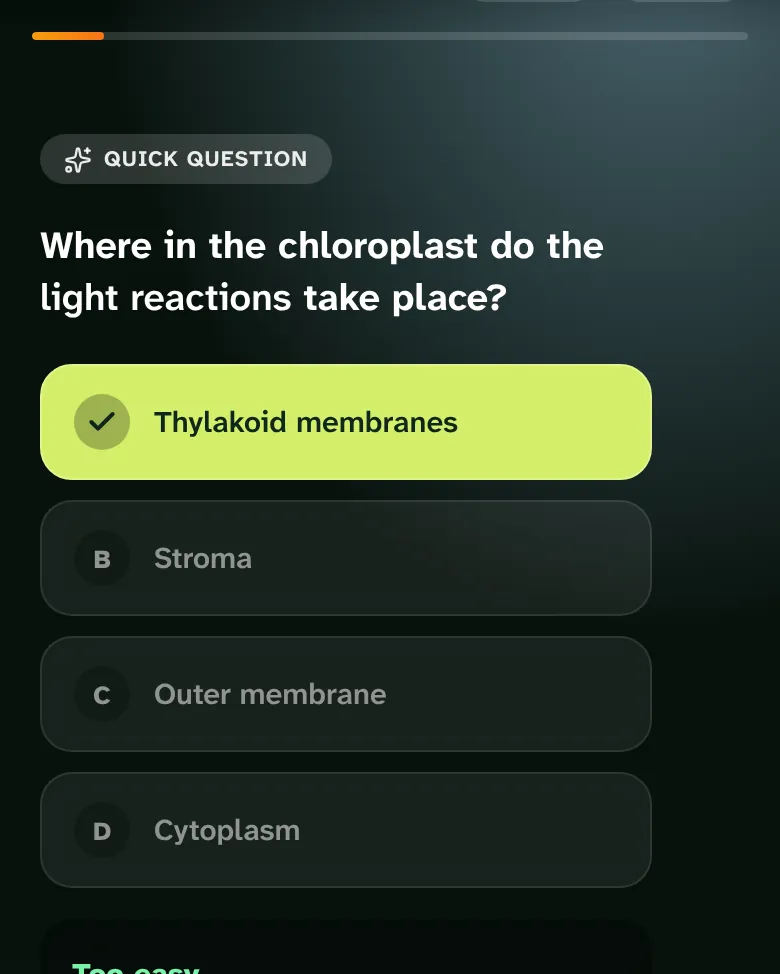
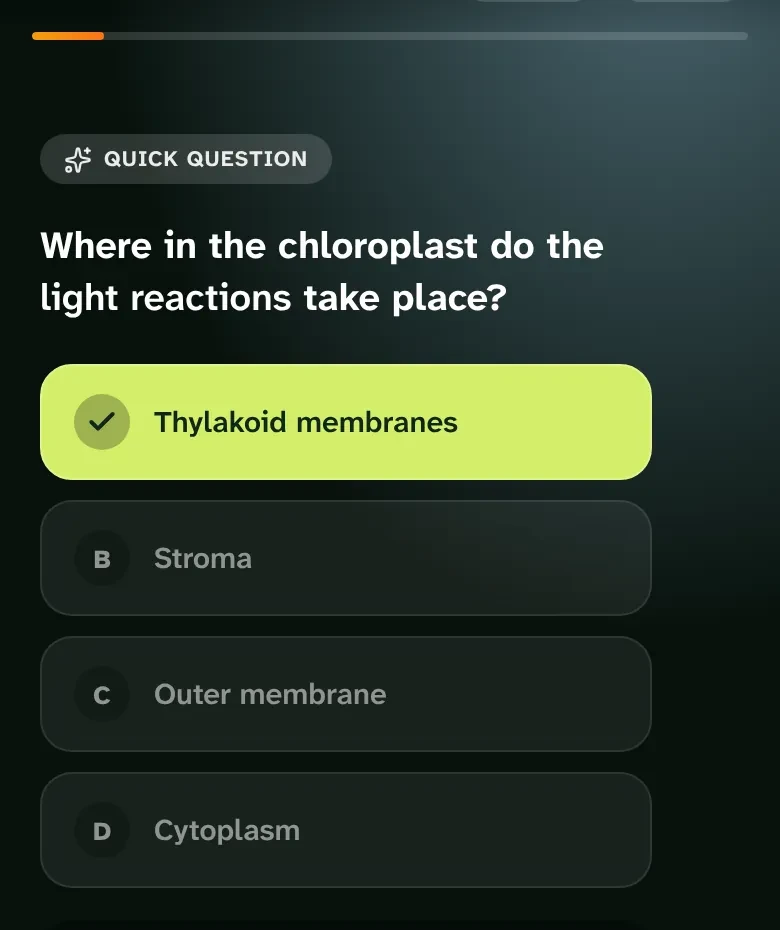
Jury round 5 fixes: hero flashcards on inner pages, cleaner hero chips, quieter details
- How it works and About: a flip-able flashcard fills the hero's empty right half
- Home hero: the quiz and source chips sit on the shot's bottom edge (desktop)
  and over the empty side of the options (phone); the cut-off 'Too easy' row
  is cropped out of the shot
- Drawn lines (thread, pipeline, finale) no longer leave a lone dot before
  they start drawing; the thread passes under the Exam Night Pass line
- Mind map: the stray edge now ends at an ATP node
- Stats: the rating and the time are shown as they are; only the large
  counts move, from 90% of the figure
- Secondary buttons fill with paper on hover, so lime always marks the main
  action; Google's button stays neutral
- Sign-in copy in sentence case ('Sign in', 'Email me a code', 'Continue
  with Google'); sign-up shows a Terms and Privacy line

Claude-Session: https://claude.ai/code/session_014LFL1RfnKKWAWyBu4pZUKt

diff --git a/frontend/website/src/app/globals.css b/frontend/website/src/app/globals.css
@@ -111,6 +111,10 @@ p { max-width: 62ch; }
 .btn--accent { background: var(--c-accent); color: var(--c-fg); }
 .btn--accent::before { background: var(--c-on-fg); }
 .btn--ghost { color: var(--c-on-fg); box-shadow: inset 0 0 0 1px rgb(242 241 234 / 0.35); }
+/* Secondary pills fill with paper, not lime, so the lime fill always marks the main action */
+.btn--light::before { background: var(--c-bg-2); }
+.btn--soft::before { background: rgb(22 54 40 / 0.1); }
+.btn--ghost::before { background: var(--c-on-fg); }
 .btn:focus-visible::before { transform: scaleX(1); }
 .btn:focus-visible { color: var(--c-fg); }
 .btn:active { scale: 0.97; }
@@ -263,8 +267,8 @@ html.motion .menu:not([hidden]) li:nth-child(5) { animation-delay: 0.16s; }
 /* ---------- Highlighter circle ---------- */
 .circled { position: relative; display: inline-block; isolation: isolate; }
 .circled svg { position: absolute; left: -6%; top: -6%; width: 114%; height: 118%; overflow: visible; z-index: -1; pointer-events: none; }
-.circled path { fill: none; stroke: var(--c-accent); stroke-width: 9; stroke-linecap: round; stroke-linejoin: round; stroke-dasharray: 1; }
-html.motion [data-draw] { stroke-dasharray: 1; stroke-dashoffset: 1; }
+.circled path { fill: none; stroke: var(--c-accent); stroke-width: 9; stroke-linecap: round; stroke-linejoin: round; stroke-dasharray: 1 2; }
+html.motion [data-draw] { stroke-dasharray: 1 2; stroke-dashoffset: 1; }
 
 /* ---------- Photos: forest duotone on paper; grid paper if a photo fails ---------- */
 .photo {
@@ -313,8 +317,8 @@ html.motion .rise { animation: rise 1.1s var(--ease-out) both; animation-delay: 
 .floater__dots i { width: 0.6rem; height: 0.6rem; border-radius: 50%; box-shadow: inset 0 0 0 1.5px var(--c-fg); }
 .floater__dots i.on { background: var(--c-accent); }
 .floater--a { left: 10%; top: -1.75rem; }
-.floater--b { right: -1.5rem; top: 40%; }
-.floater--c { right: 12%; bottom: -1.75rem; }
+.floater--b { left: -1.25rem; bottom: -2rem; }
+.floater--c { right: -1.25rem; bottom: -2rem; }
 .xp { display: block; height: 0.45rem; border-radius: 99px; background: var(--c-bg-2); margin-top: 0.55rem; overflow: hidden; }
 .xp span { display: block; height: 100%; background: var(--c-fg); border-radius: inherit; }
 
@@ -339,7 +343,7 @@ html.motion .rise { animation: rise 1.1s var(--ease-out) both; animation-delay: 
 .curve__plot svg { width: 100%; height: auto; aspect-ratio: 800 / 300; overflow: visible; }
 .curve__grid { stroke: rgb(242 241 234 / 0.12); stroke-width: 1; }
 .curve__review { stroke: rgb(211 238 106 / 0.28); stroke-width: 1; stroke-dasharray: 3 5; }
-.curve__line { fill: none; stroke-linecap: round; stroke-linejoin: round; stroke-dasharray: 1; }
+.curve__line { fill: none; stroke-linecap: round; stroke-linejoin: round; stroke-dasharray: 1 2; }
 .curve__line--once { stroke: rgb(242 241 234 / 0.6); stroke-width: 2; }
 .curve__line--rev { stroke: var(--c-accent); stroke-width: 4.5; }
 .curve__marker { stroke: rgb(242 241 234 / 0.45); stroke-width: 1; }
@@ -372,11 +376,11 @@ html.motion .rise { animation: rise 1.1s var(--ease-out) both; animation-delay: 
 /* ---------- Thread: the curve continues down the page ---------- */
 .thread { position: relative; }
 .thread__svg { position: absolute; inset: 0; width: 100%; height: 100%; pointer-events: none; z-index: 0; overflow: visible; }
-.thread__svg path { fill: none; stroke: var(--c-accent); stroke-width: 4; stroke-linecap: round; stroke-dasharray: 1; }
+.thread__svg path { fill: none; stroke: var(--c-accent); stroke-width: 4; stroke-linecap: round; stroke-dasharray: 1 2; }
 html.motion .thread__svg path { stroke-dashoffset: 1; }
 .thread > section { position: relative; z-index: 1; }
 .thread .node { justify-self: end; flex-direction: row-reverse; }
-.thread > section:not(.watch) :is(h2, .lede, .chapter, .index li, .stats__list li, .stats__note, .wall__item, .price-sec__more) { background: var(--c-bg); }
+.thread > section:not(.watch) :is(h2, .lede, .chapter, .index li, .stats__list li, .stats__note, .wall__item, .price-sec__more, .pricing__pass) { background: var(--c-bg); }
 .thread .loop__stage::before { content: ''; position: absolute; inset: 12%; border-radius: 50%; background: var(--c-bg); }
 .dial, .dial__labels, .dial__center { z-index: 1; }
 .loop__stage > * { position: absolute; inset: 0; }
@@ -610,6 +614,12 @@ html.motion .wall__media > div { scale: none; }
 .page-hero__grid > h1 { grid-column: 1 / 10; margin-left: -0.05em; }
 .page-hero__aside { grid-column: 1 / 13; display: grid; grid-template-columns: repeat(12, minmax(0, 1fr)); column-gap: var(--gutter); row-gap: 2rem; }
 .page-hero__aside .lede { grid-column: 1 / 6; }
+/* Inner pages: a flashcard holds the hero's right half (flip it for the answer) */
+.page-hero__grid--card > h1 { grid-column: 1 / 9; grid-row: 1; }
+.page-hero__grid--card .page-hero__aside { grid-column: 1 / 9; grid-row: 2; }
+.page-hero__grid--card .page-hero__aside .lede { grid-column: 1 / 10; }
+.page-hero__card { grid-column: 9 / 13; grid-row: 1 / span 2; align-self: center; rotate: 2deg; }
+.page-hero__card .flip__inner { min-height: 17rem; }
 .page-hero--center { text-align: center; }
 .page-hero--center h1 { max-width: 15ch; margin-inline: auto; }
 .page-hero--center .lede { margin: 1.75rem auto 0; max-width: 40ch; }
@@ -619,6 +629,8 @@ html.motion .wall__media > div { scale: none; }
 @media (max-width: 1023px) {
   .page-hero__grid > h1 { grid-column: 1 / -1; }
   .page-hero__aside .lede, .stage-nav { grid-column: 1 / -1; }
+  .page-hero__grid--card > h1, .page-hero__grid--card .page-hero__aside, .page-hero__card { grid-column: 1 / -1; grid-row: auto; }
+  .page-hero__card { rotate: none; max-width: 26rem; }
 }
 
 /* ---------- Features ---------- */
@@ -691,8 +703,8 @@ html.motion .wall__media > div { scale: none; }
 .pipe__steps { list-style: none; padding: 0; position: relative; display: grid; grid-template-columns: repeat(5, minmax(0, 1fr)); gap: var(--gutter); }
 .step { display: grid; gap: 0.75rem; align-content: start; }
 html.motion .pipe__line path, html.motion [data-draw-scrub] { stroke-dashoffset: 1; }
-.pipe__line path { stroke-dasharray: 1; }
-.finale__curve path { stroke-dasharray: 1; }
+.pipe__line path { stroke-dasharray: 1 2; }
+.finale__curve path { stroke-dasharray: 1 2; }
 html.motion .step { opacity: 0.42; transition: opacity 0.5s var(--ease-soft); }
 html.motion .step.is-lit { opacity: 1; }
 .step__n { transition: background-color 0.4s, color 0.4s, scale 0.6s var(--ease-out); }
@@ -849,9 +861,10 @@ html.motion .step.is-lit { opacity: 1; }
   /* Hero: photo with floating cards first, the memory chart overlaps it from below */
   .hero__media { grid-row: 1; grid-column: 1 / -1; margin: 1.75rem 1rem 0; }
   .hero__chart { grid-row: 2; grid-column: 1 / -1; margin-top: -5rem; position: relative; z-index: 4; }
-  .floater--a { left: -1.1rem; top: 6%; }
-  .floater--b { right: -1.1rem; top: 34%; }
-  .floater--c { left: -0.6rem; top: 58%; bottom: auto; }
+  .floater--a { left: -1.1rem; top: -1.6rem; }
+  /* Option text is left-aligned, so the chips sit on the right where the options are empty */
+  .floater--b { left: auto; right: -1.1rem; top: 38%; bottom: auto; }
+  .floater--c { left: auto; right: -0.8rem; top: 68%; bottom: auto; }
 
   /* Tools: a swipe deck of cards with their example output */
   .tools__head::after, .people__head::after { content: 'Swipe for more'; font-size: var(--t-xs); color: var(--c-muted); margin-top: 0.25rem; }

diff --git a/frontend/src/pages/Login.jsx b/frontend/src/pages/Login.jsx
@@ -1,5 +1,5 @@
 import React, { useState } from 'react';
-import { useNavigate, useSearchParams } from 'react-router-dom';
+import { Link, useNavigate, useSearchParams } from 'react-router-dom';
 import SiteHeader from '../components/site/SiteHeader';
 import Circled from '../components/site/Circled';
 import MemoryCurve from '../components/MemoryCurve';
@@ -269,11 +269,16 @@ const Login = () => {
                                 <Loader2 className="h-6 w-6 animate-spin" />
                             ) : (
                                 <>
-                                    {isForgot ? 'Send reset link' : isOtpMode ? (otpSent ? 'Verify OTP' : 'Send Code') : isLogin ? 'Sign In' : 'Create Account'}
+                                    {isForgot ? 'Send reset link' : isOtpMode ? (otpSent ? 'Verify code' : 'Email me a code') : isLogin ? 'Sign in' : 'Create account'}
                                     <ArrowRight className="h-5 w-5" />
                                 </>
                             )}
                         </button>
+                        {!isLogin && !isOtpMode && !isForgot && (
+                            <p className="text-center text-sm text-[#5E5046]">
+                                By creating an account you agree to the <Link to="/terms" className="underline underline-offset-2 hover:text-[#163628]">Terms</Link> and <Link to="/privacy" className="underline underline-offset-2 hover:text-[#163628]">Privacy Policy</Link>.
+                            </p>
+                        )}
                     </form>
 
                     {isForgot ? (
@@ -303,15 +308,15 @@ const Login = () => {
                                 setLoading(true);
                                 await loginWithGoogle();
                             } catch (e) {
-                                setMessage({ type: 'error', text: 'Google Sign In failed' });
+                                setMessage({ type: 'error', text: 'Google sign-in failed' });
                                 setLoading(false);
                             }
                         }}
                         disabled={loading}
-                        className="btn btn--light btn--block min-h-[3.4rem] gap-3 text-lg"
+                        className="btn btn--light btn--google btn--block min-h-[3.4rem] gap-3 text-lg"
                     >
                         <svg className="h-6 w-6" viewBox="0 0 48 48" aria-hidden="true"><path fill="#FFC107" d="M43.6 20.5H42V20H24v8h11.3C33.7 32.7 29.2 36 24 36c-6.6 0-12-5.4-12-12s5.4-12 12-12c3.1 0 5.8 1.2 7.9 3.1l5.7-5.7C34 6.1 29.3 4 24 4 12.9 4 4 12.9 4 24s8.9 20 20 20 20-8.9 20-20c0-1.3-.1-2.4-.4-3.5z"/><path fill="#FF3D00" d="M6.3 14.7l6.6 4.8C14.7 15.1 19 12 24 12c3.1 0 5.8 1.2 7.9 3.1l5.7-5.7C34 6.1 29.3 4 24 4 16.3 4 9.7 8.3 6.3 14.7z"/><path fill="#4CAF50" d="M24 44c5.2 0 9.9-2 13.4-5.2l-6.2-5.2C29.2 35.1 26.7 36 24 36c-5.2 0-9.6-3.3-11.3-7.9l-6.5 5C9.5 39.6 16.2 44 24 44z"/><path fill="#1976D2" d="M43.6 20.5H42V20H24v8h11.3c-.8 2.2-2.2 4.2-4.1 5.6l6.2 5.2C36.9 39.2 44 34 44 24c0-1.3-.1-2.4-.4-3.5z"/></svg>
-                        Google
+                        Continue with Google
                     </button>
 
                     <button
@@ -325,7 +330,7 @@ const Login = () => {
                         className="btn btn--soft btn--block mt-3 min-h-[3.4rem] gap-3 text-lg"
                     >
                         <Mail className="h-5 w-5 text-[#5E5046]" />
-                        {isOtpMode ? 'Use Password Instead' : 'Login with Email Code'}
+                        {isOtpMode ? 'Use a password instead' : 'Email me a sign-in code'}
                     </button>
 
                     <div className="mt-8 pt-6 border-t border-[#FDF6F0] text-center">

diff --git a/frontend/website/src/components/Specimen.tsx b/frontend/website/src/components/Specimen.tsx
@@ -54,7 +54,7 @@ export function Specimen({ slug }: { slug: string }) {
         <div className="spec spec--map">
           <svg viewBox="0 0 240 140" aria-hidden="true">
             <g className="map__edges">
-              <path d="M120 70 L46 30 M120 70 L50 112 M120 70 L196 34 M120 70 L194 110 M46 30 L20 64" />
+              <path d="M120 70 L46 30 M120 70 L50 112 M120 70 L196 34 M120 70 L194 110 M46 30 L22 56" />
             </g>
             <g className="map__nodes">
               <rect x="78" y="58" width="84" height="24" rx="12" className="is-root" />
@@ -62,6 +62,7 @@ export function Specimen({ slug }: { slug: string }) {
               <rect x="14" y="102" width="72" height="20" rx="10" />
               <rect x="160" y="24" width="72" height="20" rx="10" />
               <rect x="158" y="100" width="72" height="20" rx="10" />
+              <rect x="2" y="56" width="40" height="18" rx="9" />
             </g>
             <g className="map__labels">
               <text x="120" y="74">Photosynthesis</text>
@@ -69,6 +70,7 @@ export function Specimen({ slug }: { slug: string }) {
               <text x="50" y="116">Calvin cycle</text>
               <text x="196" y="38">Chloroplast</text>
               <text x="194" y="114">Products</text>
+              <text x="22" y="69">ATP</text>
             </g>
           </svg>
         </div>

diff --git a/frontend/website/src/app/how-it-works/page.tsx b/frontend/website/src/app/how-it-works/page.tsx
@@ -2,6 +2,7 @@ import type { Metadata } from 'next';
 import { breadcrumbs, ld, pageMeta } from '@/lib/seo';
 import { Faq } from '@/components/Faq';
 import { faqs, loop, pipeline, reviewDays } from '@/data/site';
+import { FlipCard } from '@/components/FlipCard';
 
 export const metadata: Metadata = pageMeta({
   title: 'How it works: from your PDF to cited answers',
@@ -16,7 +17,7 @@ export default function HowItWorks() {
   return (
     <>
       <section className="page-hero" aria-labelledby="how-title">
-        <div className="wrap page-hero__grid">
+        <div className="wrap page-hero__grid page-hero__grid--card">
           <h1 id="how-title" className="display h-mega rise">
             What happens after you <em>upload.</em>
           </h1>
@@ -26,6 +27,13 @@ export default function HowItWorks() {
               see each idea again.
             </p>
           </div>
+          <FlipCard
+            className="page-hero__card rise"
+            meta="Biology, ch. 8 · Review day 6"
+            question="Where in the chloroplast do the light reactions take place?"
+            answerMeta="Answer · from your file, p. 142"
+            answer="On the thylakoid membranes. Next review: day 15."
+          />
         </div>
       </section>
 

diff --git a/frontend/website/src/components/FlipCard.tsx b/frontend/website/src/components/FlipCard.tsx
@@ -1,0 +1,31 @@
+'use client';
+import { useState } from 'react';
+
+type Props = { meta: string; question: string; answer: string; answerMeta?: string; className?: string };
+
+/** A flashcard that flips on click or Enter: the product's own object, used as a page's hero piece. */
+export function FlipCard({ meta, question, answer, answerMeta = 'Answer', className }: Props) {
+  const [flipped, setFlipped] = useState(false);
+  return (
+    <div className={`demo demo--flash ${className ?? ''}`}>
+      <button
+        type="button"
+        className={`flip ${flipped ? 'is-flipped' : ''}`}
+        onClick={() => setFlipped((f) => !f)}
+        aria-pressed={flipped}
+      >
+        <span className="flip__inner">
+          <span className="flip__face flip__front" aria-hidden={flipped}>
+            <span className="flip__meta">{meta}</span>
+            <span className="flip__text">{question}</span>
+            <span className="flip__hint">Flip</span>
+          </span>
+          <span className="flip__face flip__back" aria-hidden={!flipped}>
+            <span className="flip__meta">{answerMeta}</span>
+            <span className="flip__text">{answer}</span>
+          </span>
+        </span>
+      </button>
+    </div>
+  );
+}

diff --git a/frontend/website/src/app/about/page.tsx b/frontend/website/src/app/about/page.tsx
@@ -2,6 +2,7 @@ import type { Metadata } from 'next';
 import { breadcrumbs, ld, pageMeta } from '@/lib/seo';
 import Link from 'next/link';
 import { Arrow } from '@/components/Footer';
+import { FlipCard } from '@/components/FlipCard';
 import { Photo } from '@/components/Photo';
 import { photos, site } from '@/data/site';
 
@@ -35,7 +36,7 @@ export default function About() {
   return (
     <>
       <section className="page-hero" aria-labelledby="about-title">
-        <div className="wrap page-hero__grid">
+        <div className="wrap page-hero__grid page-hero__grid--card">
           <h1 id="about-title" className="display h-mega rise">
             Studying should be <em>practice,</em> not preparation.
           </h1>
@@ -45,6 +46,12 @@ export default function About() {
               Lumina IQ exists to hand those hours back.
             </p>
           </div>
+          <FlipCard
+            className="page-hero__card rise"
+            meta="Card 1 · How memory works"
+            question="What makes a fact stick: reading it again, or recalling it?"
+            answer="Recalling it. Each time you pull an answer out of memory, it lasts longer. That is the whole product."
+          />
         </div>
       </section>
 

diff --git a/frontend/website/src/components/NotFoundCard.tsx b/frontend/website/src/components/NotFoundCard.tsx
@@ -1,28 +1,12 @@
-'use client';
-import { useState } from 'react';
+import { FlipCard } from './FlipCard';
 
 export function NotFoundCard() {
-  const [flipped, setFlipped] = useState(false);
   return (
-    <div className="demo demo--flash lost__card">
-      <button
-        type="button"
-        className={`flip ${flipped ? 'is-flipped' : ''}`}
-        onClick={() => setFlipped((f) => !f)}
-        aria-pressed={flipped}
-      >
-        <span className="flip__inner">
-          <span className="flip__face flip__front" aria-hidden={flipped}>
-            <span className="flip__meta">Card 404</span>
-            <span className="flip__text">Where did this page go?</span>
-            <span className="flip__hint">Flip</span>
-          </span>
-          <span className="flip__face flip__back" aria-hidden={!flipped}>
-            <span className="flip__meta">Answer</span>
-            <span className="flip__text">Not here. Everything else is one link away.</span>
-          </span>
-        </span>
-      </button>
-    </div>
+    <FlipCard
+      className="lost__card"
+      meta="Card 404"
+      question="Where did this page go?"
+      answer="Not here. Everything else is one link away."
+    />
   );
 }

diff --git a/frontend/website/src/motion/setup.ts b/frontend/website/src/motion/setup.ts
@@ -207,8 +207,11 @@ function counters() {
     document.querySelectorAll<HTMLElement>('[data-count]').forEach((el) => {
       const target = parseFloat(el.dataset.count || '0');
       const decimals = parseInt(el.dataset.decimals || '0', 10);
+      // A rating or a time is read as a fact, never as a running tally: only large counts move,
+      // and they start near the end so a passing glance never reads a wrong figure.
+      if (decimals > 0 || target < 1000) return;
       const final = el.textContent;
-      const o = { v: 0 };
+      const o = { v: Math.round(target * 0.9) };
       const fmt = (v: number) => v.toLocaleString('en-US', { minimumFractionDigits: decimals, maximumFractionDigits: decimals });
       gsap.to(o, {
         v: target,
@@ -216,7 +219,7 @@ function counters() {
         ease: ease.out,
         scrollTrigger: { trigger: el, start: 'top 90%', once: true },
         onStart: () => {
-          el.textContent = fmt(0);
+          el.textContent = fmt(o.v);
         },
         onUpdate: () => {
           el.textContent = fmt(o.v);

diff --git a/frontend/website/src/data/site.ts b/frontend/website/src/data/site.ts
@@ -54,7 +54,7 @@ export type Photo = { id: string; alt: string; src?: string; w?: number; h?: num
 // w × h is the capture's own size, so the frame never crops a product shot
 const shot = (file: string, w: number, h: number, alt: string): Photo => ({ id: file, src: `/shots/${file}`, w, h, alt });
 export const photos = {
-  hero: shot('feed.webp', 780, 974, 'The Lumina IQ phone app: a quick question on where the light reactions happen, answered correctly'),
+  hero: shot('feed.webp', 780, 930, 'The Lumina IQ phone app: a quick question on where the light reactions happen, answered correctly'),
   college: shot('dashboard.webp', 740, 540, 'The Lumina IQ dashboard: a greeting, a nudge from Lumi and the chapter to continue'),
   medlaw: shot('phone-home.webp', 780, 974, 'The phone home screen: a getting-started checklist and today\'s review feed'),
   teachers: shot('memory-curve.webp', 878, 531, 'The memory curve: how much of the studied topics is still remembered, and when it fades'),

diff --git a/frontend/src/lumina.css b/frontend/src/lumina.css
@@ -308,6 +308,10 @@ html.dark .lumina-logo { color: var(--lumina-on-ink); }
 .btn--soft { background: var(--lumina-bg-2); color: var(--lumina-ink); }
 .btn--accent { background: var(--lumina-lime); color: var(--lumina-ink); }
 .btn--accent::before { background: var(--lumina-on-ink); }
+/* Secondary pills fill with paper, not lime, so the one lime fill always marks the main action */
+.btn--light::before, .btn--soft::before { background: var(--lumina-bg-2); }
+.btn--soft::before { background: rgb(22 54 40 / 0.1); }
+.btn--google::before { background: #f1f3f4; }
 .btn:focus-visible::before { transform: scaleX(1); }
 .btn:focus-visible { color: var(--lumina-ink); }
 .btn:active { scale: 0.97; }
